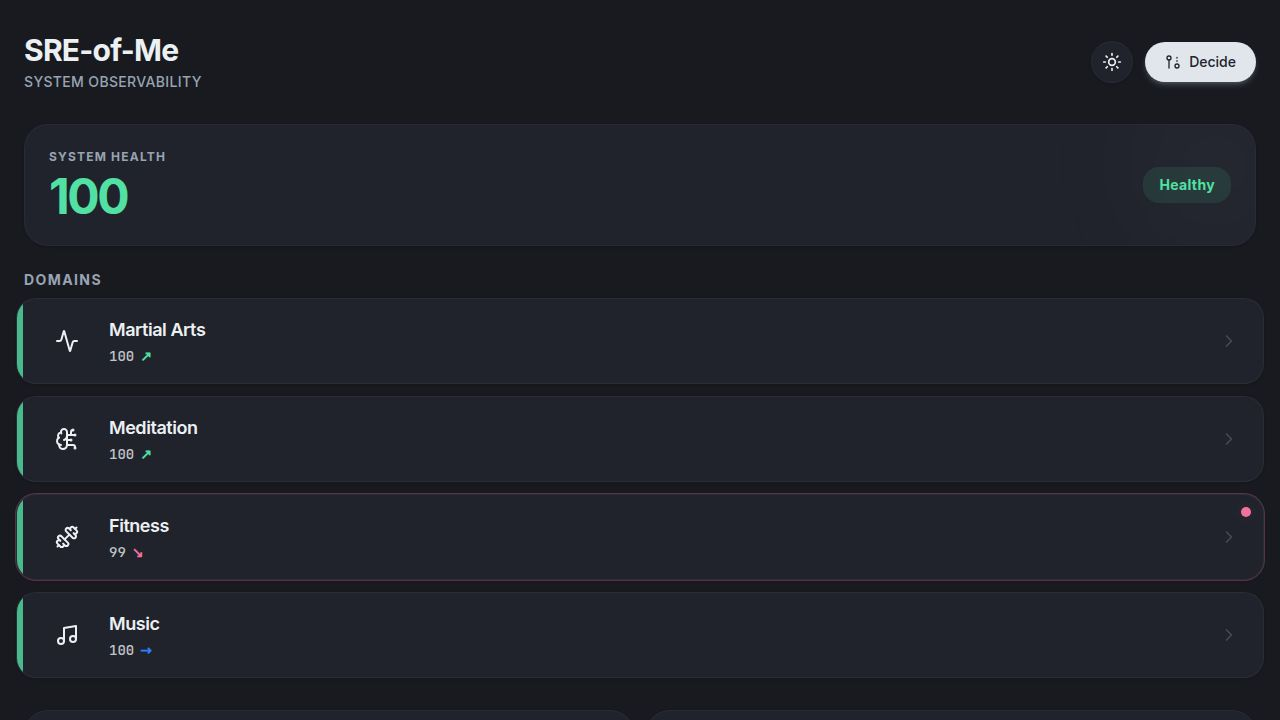
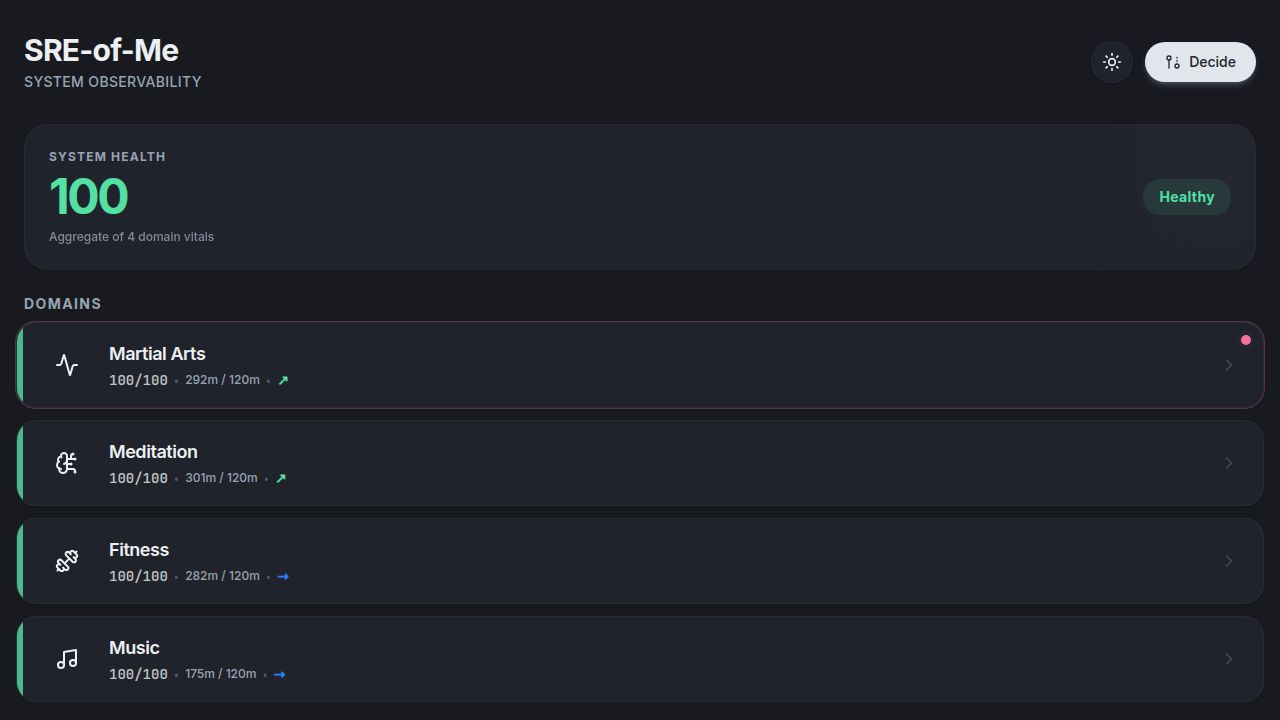
Enhance decision-making insights with clearer rationale and improved trend visibility
Update the Decide and Dashboard pages to provide more detailed explanations for system status, including clearer rationales for decisions, enhanced trend visualization, and an aggregated system health score.

Replit-Commit-Author: Agent
Replit-Commit-Session-Id: db2d2d69-5b4a-407f-9b58-755ca763da57
Replit-Commit-Checkpoint-Type: full_checkpoint
Replit-Commit-Event-Id: f1a3adc6-a426-4463-9cfb-2db9ab5def9e
Replit-Commit-Screenshot-Url: https://storage.googleapis.com/screenshot-production-us-central1/7237608a-d171-460d-b9b4-6b4247c90b6f/db2d2d69-5b4a-407f-9b58-755ca763da57/ANddZwT
Replit-Helium-Checkpoint-Created: true

diff --git a/client/src/pages/decide.tsx b/client/src/pages/decide.tsx
@@ -13,21 +13,30 @@ export default function Decide() {
   const getDomainStatus = useAppStore(state => state.getDomainStatus);
   
   const weakest = getWeakestDomain();
-  const { status, score } = getDomainStatus(weakest);
+  const weakestStatus = getDomainStatus(weakest);
+  
+  // Aggregate data for reasoning engine
+  const domains: ('martial-arts' | 'meditation' | 'fitness' | 'music')[] = ['martial-arts', 'meditation', 'fitness', 'music'];
+  const allStatuses = domains.map(d => ({ domain: d, ...getDomainStatus(d) }));
+  const criticalDomains = allStatuses.filter(s => s.status === 'critical');
+  const degradedDomains = allStatuses.filter(s => s.status === 'degraded');
+  
+  const isSystemCritical = criticalDomains.length > 0;
+  const isSystemDegraded = degradedDomains.length > 0;
+  
+  const formatDomainsList = (doms: typeof allStatuses) => 
+    doms.map(d => d.domain.replace('-', ' ')).join(', ');
   
   // Logic engine for decisions
   const evaluate = () => {
     if (!priority) return null;
     
-    const isSystemCritical = status === 'critical' || score < 50;
-    const isSystemDegraded = status === 'degraded' || score < 75;
-    
     if (priority === 'P1') {
       return {
         recommendation: 'Accept',
-        action: 'Accept and Execute',
+        action: 'Immediate Execution Required',
         state: 'Override',
-        reason: 'P1 demands bypass normal system protection policies.',
+        reason: `Priority 1 overrides all current system protections. Accept the demand, but note that this will further delay recovery of ${weakest.replace('-',' ')} which is currently at ${weakestStatus.score}% health.`,
         color: 'text-status-critical',
         bg: 'bg-status-critical/10'
       };
@@ -37,18 +46,28 @@ export default function Decide() {
       if (isSystemCritical) {
         return {
           recommendation: 'Decline / Defer',
-          action: `Prioritize ${weakest.replace('-', ' ')} recovery`,
-          state: 'Critical Protection',
-          reason: `System is critically degraded (${weakest}). P2 demands cannot be safely absorbed.`,
+          action: `Protect schedule. Recover ${weakest.replace('-', ' ')}.`,
+          state: 'Active Load Shedding',
+          reason: `System is in a protective state. ${criticalDomains.length} domains (including ${weakest.replace('-', ' ')}) are in critical condition. P2 demands introduce an unacceptable risk of systemic failure right now.`,
+          color: 'text-status-degraded',
+          bg: 'bg-status-degraded/10'
+        };
+      }
+      if (isSystemDegraded) {
+        return {
+          recommendation: 'Accept with Constraints',
+          action: 'Strictly time-box the execution.',
+          state: 'Degraded Capacity',
+          reason: `System is degraded in ${formatDomainsList(degradedDomains)}. P2 can be absorbed, but strict time-boxing is required to ensure recovery tasks aren't cannibalized.`,
           color: 'text-status-degraded',
           bg: 'bg-status-degraded/10'
         };
       }
       return {
         recommendation: 'Accept',
-        action: 'Accept with monitoring',
-        state: 'Safe to absorb',
-        reason: 'System health is adequate to absorb P2 demands.',
+        action: 'Execute normally.',
+        state: 'Absorbable Capacity',
+        reason: 'System health is strong across all domains. Sufficient resilience exists to absorb P2 demands without destabilizing core routines.',
         color: 'text-status-healthy',
         bg: 'bg-status-healthy/10'
       };
@@ -58,9 +77,9 @@ export default function Decide() {
     if (isSystemCritical || isSystemDegraded) {
       return {
         recommendation: 'Decline',
-        action: 'Reject immediately',
-        state: 'Active Shedding',
-        reason: 'System is degraded. Load shedding all P3 demands.',
+        action: 'Reject immediately without guilt.',
+        state: 'Capacity Exhausted',
+        reason: `System is currently running a deficit (weakest: ${weakest.replace('-', ' ')}). All P3 (optional) demands must be shed to protect baseline recovery.`,
         color: 'text-status-critical',
         bg: 'bg-status-critical/10'
       };
@@ -68,9 +87,9 @@ export default function Decide() {
     
     return {
       recommendation: 'Evaluate',
-      action: 'Evaluate vs Optional',
-      state: 'Healthy',
-      reason: 'System is healthy. Accept only if it aligns with goals.',
+      action: 'Verify alignment with core goals.',
+      state: 'Surplus Capacity',
+      reason: 'System is healthy and can absorb this. However, as a P3, only accept if it genuinely provides high value or joy, otherwise preserve the surplus capacity.',
       color: 'text-blue-500',
       bg: 'bg-blue-500/10'
     };

diff --git a/client/src/pages/domain-detail.tsx b/client/src/pages/domain-detail.tsx
@@ -28,7 +28,7 @@ export default function DomainDetail() {
   const getDomainStatus = useAppStore(state => state.getDomainStatus);
   
   const domainSessions = sessions.filter(s => s.domain === domain);
-  const { score, status, trend } = getDomainStatus(domain);
+  const { score, status, trend, recentMinutes, targetMinutes } = getDomainStatus(domain);
   
   // Generate last 7 days data for chart
   const chartData = Array.from({ length: 7 }).map((_, i) => {
@@ -102,26 +102,37 @@ export default function DomainDetail() {
 
       <main className="px-4 py-6 space-y-8">
         {/* Status Header */}
-        <section className="flex items-center justify-between">
-          <div>
-            <div className="text-xs font-bold uppercase tracking-widest text-muted-foreground mb-2">Current Status</div>
-            <div className="flex items-center gap-3">
-              <span className={`text-5xl font-extrabold tracking-tighter ${getStatusColor()}`}>
-                {score}
-              </span>
-              <div className={`px-3 py-1.5 rounded-xl text-xs font-bold uppercase tracking-wide ${getStatusBgColor()} ${getStatusColor()}`}>
-                {status}
+        <section className="bg-card border border-border/60 rounded-3xl p-6 shadow-sm">
+          <div className="flex items-start justify-between mb-5">
+            <div>
+              <div className="text-xs font-bold uppercase tracking-widest text-muted-foreground mb-2">Current Status</div>
+              <div className="flex items-center gap-3">
+                <span className={`text-5xl font-extrabold tracking-tighter ${getStatusColor()}`}>
+                  {score}
+                </span>
+                <div className={`px-3 py-1.5 rounded-xl text-xs font-bold uppercase tracking-wide ${getStatusBgColor()} ${getStatusColor()}`}>
+                  {status}
+                </div>
+              </div>
+            </div>
+            
+            <div className="text-right">
+              <div className="text-xs font-bold uppercase tracking-widest text-muted-foreground mb-2">Trend</div>
+              <div className="flex items-center justify-end gap-1.5 font-bold text-xl">
+                {trend === 'up' && <><span className="text-status-healthy">↗</span> Up</>}
+                {trend === 'down' && <><span className="text-status-critical">↘</span> Down</>}
+                {trend === 'flat' && <><span className="text-blue-500">→</span> Flat</>}
               </div>
             </div>
           </div>
           
-          <div className="text-right">
-            <div className="text-xs font-bold uppercase tracking-widest text-muted-foreground mb-2">Trend</div>
-            <div className="flex items-center justify-end gap-1.5 font-bold text-xl">
-              {trend === 'up' && <><span className="text-status-healthy">↗</span> Up</>}
-              {trend === 'down' && <><span className="text-status-critical">↘</span> Down</>}
-              {trend === 'flat' && <><span className="text-blue-500">→</span> Flat</>}
-            </div>
+          <div className="pt-4 border-t border-border/40">
+            <p className="text-sm text-muted-foreground leading-relaxed">
+              <strong className="text-foreground">Why this score?</strong> You have logged <strong className="text-foreground">{recentMinutes} minutes</strong> in the past 7 days against a baseline target of <strong className="text-foreground">{targetMinutes} minutes</strong>. 
+              {trend === 'up' ? ' This represents an improvement over your historical average.' : 
+               trend === 'down' ? ' This represents a decline compared to your historical average.' : 
+               ' Your engagement is holding steady compared to your historical average.'}
+            </p>
           </div>
         </section>
 

diff --git a/client/src/pages/dashboard.tsx b/client/src/pages/dashboard.tsx
@@ -35,7 +35,7 @@ const DomainCard = ({ domain, title }: { domain: Domain, title: string }) => {
   const domainStatus = getDomainStatus(domain);
   const weakest = getWeakestDomain();
   
-  const { score, trend, status } = domainStatus;
+  const { score, trend, status, recentMinutes, targetMinutes } = domainStatus;
   const isWeakest = weakest === domain;
   
   const getStatusColor = () => {
@@ -80,11 +80,14 @@ const DomainCard = ({ domain, title }: { domain: Domain, title: string }) => {
             <h3 className="font-semibold text-lg tracking-tight text-foreground">{title}</h3>
             <div className="flex items-center gap-2 mt-0.5">
               <div className="flex items-center gap-1.5 text-sm font-medium text-muted-foreground">
-                <span className="font-mono text-foreground/80">{score}</span>
+                <span className="font-mono text-foreground/80">{score}/100</span>
+                <span className="opacity-40 text-[10px]">•</span>
+                <span className="text-xs">{recentMinutes}m / {targetMinutes}m</span>
+                <span className="opacity-40 text-[10px]">•</span>
                 <span>
-                  {trend === 'up' && <span className="text-status-healthy font-bold">↗</span>}
-                  {trend === 'down' && <span className="text-status-critical font-bold">↘</span>}
-                  {trend === 'flat' && <span className="text-blue-500 font-bold">→</span>}
+                  {trend === 'up' && <span className="text-status-healthy font-bold" title="Trending up vs history">↗</span>}
+                  {trend === 'down' && <span className="text-status-critical font-bold" title="Trending down vs history">↘</span>}
+                  {trend === 'flat' && <span className="text-blue-500 font-bold" title="Holding steady">→</span>}
                 </span>
               </div>
             </div>
@@ -189,6 +192,7 @@ export default function Dashboard() {
                   {systemHealth.score}
                 </span>
               </div>
+              <div className="text-xs text-muted-foreground mt-2 opacity-80 font-medium">Aggregate of 4 domain vitals</div>
             </div>
             <div className={`px-4 py-2 rounded-2xl text-sm font-bold tracking-wide ${systemHealth.bg} ${systemHealth.color}`}>
               {systemHealth.status}

diff --git a/client/src/store.ts b/client/src/store.ts
@@ -14,7 +14,7 @@ export interface Session {
 interface AppState {
   sessions: Session[];
   addSession: (session: Omit<Session, 'id'>) => void;
-  getDomainStatus: (domain: Domain) => { score: number; trend: 'up' | 'down' | 'flat'; status: 'healthy' | 'degraded' | 'critical' };
+  getDomainStatus: (domain: Domain) => { score: number; trend: 'up' | 'down' | 'flat'; status: 'healthy' | 'degraded' | 'critical'; recentMinutes: number; targetMinutes: number; };
   getWeakestDomain: () => Domain;
   theme: 'dark' | 'light';
   toggleTheme: () => void;
@@ -64,7 +64,8 @@ const calculateDomainStatus = (sessions: Session[], domain: Domain) => {
   const recentMinutes = recentSessions.reduce((sum, s) => sum + s.durationMinutes, 0);
   const olderMinutesAvg = olderSessions.reduce((sum, s) => sum + s.durationMinutes, 0) / (23 / 7); // Avg per week in the older period
   
-  const score = Math.min(100, Math.round((recentMinutes / 120) * 100));
+  const targetMinutes = 120;
+  const score = Math.min(100, Math.round((recentMinutes / targetMinutes) * 100));
   
   let trend: 'up' | 'down' | 'flat' = 'flat';
   if (recentMinutes > olderMinutesAvg * 1.2) trend = 'up';
@@ -74,7 +75,7 @@ const calculateDomainStatus = (sessions: Session[], domain: Domain) => {
   if (score < 40) status = 'critical';
   else if (score < 70) status = 'degraded';
   
-  return { score, trend, status };
+  return { score, trend, status, recentMinutes, targetMinutes };
 };
 
 export const useAppStore = create<AppState>()(
